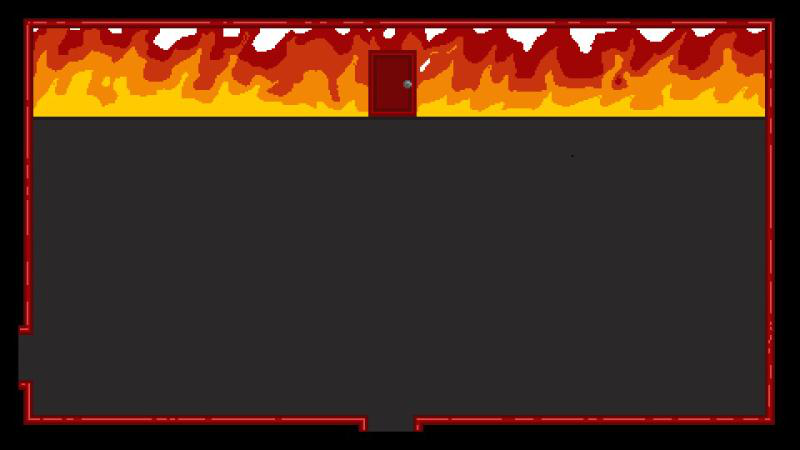
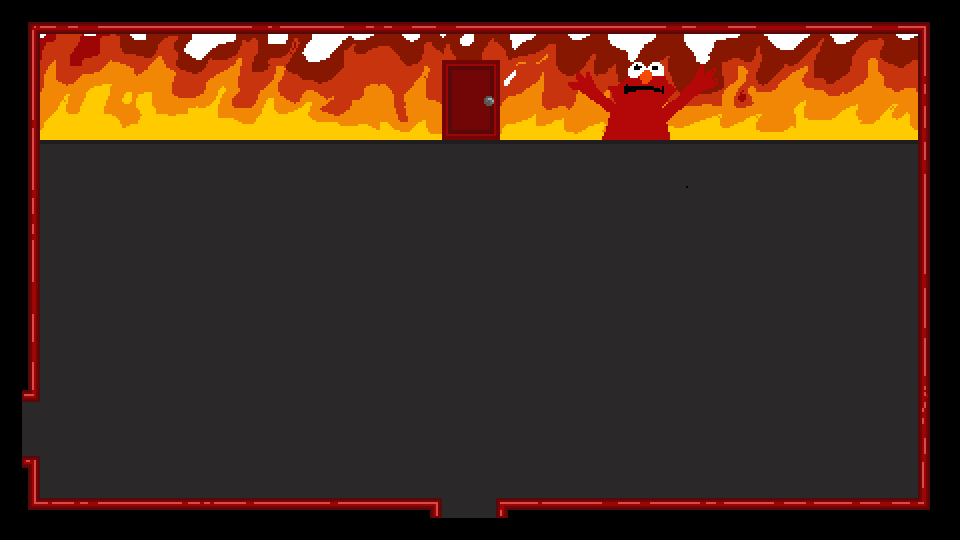
add final boss sprite and How To Play screen

Changed region(s): [[0.125, 0.0622, 0.9688, 0.28], [0.0312, 0.2489, 0.4688, 0.28]]

diff --git a/src/src/controller/Main.java b/src/src/controller/Main.java
@@ -2,8 +2,12 @@ package src.controller;
 
 import javafx.animation.AnimationTimer;
 import javafx.application.Application;
+import javafx.event.EventHandler;
 import javafx.scene.Scene;
 import javafx.scene.image.Image;
+import javafx.scene.image.ImageView;
+import javafx.scene.input.KeyCode;
+import javafx.scene.input.KeyEvent;
 import javafx.scene.layout.Pane;
 import javafx.stage.Stage;
 import src.model.Direction;
@@ -56,70 +60,77 @@ public class Main extends Application {
     }
 
     private void goToInitialScreen(ConfigurationScreenScene configScene) {
-        if (configScene.validateUsernameString()) {
-            gameModel.setUsername(configScene.getUsername());
-            gameModel.setDifficulty(difficulties[
-                    (Integer) configScene.getDifficultyIndex()]);
-            gameModel.setWeapon(weapons[
-                    (Integer) configScene.getWeaponIndex()]);
-            gameModel.setDifficultyIndex(
-                    (Integer) configScene.getDifficultyIndex());
+        //show How to Play
+        HowToPlayScreen playScreen = new HowToPlayScreen(width, height, gameModel, getPlayerView());
+        mainWindow.setScene(playScreen.getHowToPlayScreen());
+        mainWindow.addEventHandler(KeyEvent.KEY_PRESSED, event->{
+            if (event.getCode() == KeyCode.TAB) {
+                if (configScene.validateUsernameString()) {
+                    gameModel.setUsername(configScene.getUsername());
+                    gameModel.setDifficulty(difficulties[
+                            (Integer) configScene.getDifficultyIndex()]);
+                    gameModel.setWeapon(weapons[
+                            (Integer) configScene.getWeaponIndex()]);
+                    gameModel.setDifficultyIndex(
+                            (Integer) configScene.getDifficultyIndex());
 
-            Pane playerLayer = new Pane();
-            //starting sprites
-            Image playerImage = new Image("file:assets/AlexFWD.png");
-            Weapon weapon = Weapon.SWORD;
+                    Pane playerLayer = new Pane();
+                    //starting sprites
+                    Image playerImage = new Image("file:assets/AlexFWD.png");
+                    Weapon weapon = Weapon.SWORD;
 
-            switch (weapons[(Integer) configScene.getWeaponIndex()]) {
-            case "Sword":
-                playerImage = new Image(
-                        "file:assets/alex_sprites/sword/facing_front/"
-                                + "standing/sword_front_standing.png");
-                weapon = Weapon.SWORD;
-                break;
-            case "Gun":
-                playerImage = new Image(
-                        "file:assets/alex_sprites/gun/facing_front/"
-                                + "standing/gun_front_standing.png");
-                weapon = Weapon.GUN;
-                break;
-            case "Broken Bottle" :
-                playerImage = new Image(
-                        "file:assets/alex_sprites/broken_bottle/facing_front/"
-                                + "standing/bottle_front_standing.png");
-                weapon = Weapon.BOTTLE;
-                break;
-            default:
-                break;
-            }
-
-            PlayerView playerView = new PlayerView(playerLayer, (double) width / 2,
-                    (double) height / 2, width, height, weapon, Direction.FRONT);
-            this.pV = playerView; //for testing purposes
-            Image inventoryImage = new Image("file:assets/inventory.png");
-            InventoryView inventoryView = new InventoryView(inventoryImage);
-            MazeView maze = new MazeView(width, height, 5, 5, gameModel, playerView, inventoryView);
-            this.mV = maze;
-            this.iV = inventoryView;
-            PlayerController playerController =
-                    new PlayerController(mainWindow, playerView, maze, inventoryView);
-            MazeController mazeController =
-                    new MazeController(mainWindow, maze, playerView, gameModel);
-            MonsterController monsterController
-                    = new MonsterController(mainWindow, playerView, maze);
-            mainWindow.setScene(maze.getCurrent().getScene());
-            mainWindow.show();
-            AnimationTimer timer = new AnimationTimer() {
-                @Override
-                public void handle(long now) {
-                    //checking if player has died
-                    if (playerView.getModel().getPlayerHP() <= 0) {
-                        goToDieScreen(configScene, this);
+                    switch (weapons[(Integer) configScene.getWeaponIndex()]) {
+                        case "Sword":
+                            playerImage = new Image(
+                                    "file:assets/alex_sprites/sword/facing_front/"
+                                            + "standing/sword_front_standing.png");
+                            weapon = Weapon.SWORD;
+                            break;
+                        case "Gun":
+                            playerImage = new Image(
+                                    "file:assets/alex_sprites/gun/facing_front/"
+                                            + "standing/gun_front_standing.png");
+                            weapon = Weapon.GUN;
+                            break;
+                        case "Broken Bottle" :
+                            playerImage = new Image(
+                                    "file:assets/alex_sprites/broken_bottle/facing_front/"
+                                            + "standing/bottle_front_standing.png");
+                            weapon = Weapon.BOTTLE;
+                            break;
+                        default:
+                            break;
                     }
+
+                    PlayerView playerView = new PlayerView(playerLayer, (double) width / 2,
+                            (double) height / 2, width, height, weapon, Direction.FRONT);
+                    this.pV = playerView; //for testing purposes
+                    Image inventoryImage = new Image("file:assets/inventory.png");
+                    InventoryView inventoryView = new InventoryView(inventoryImage);
+                    MazeView maze = new MazeView(width, height, 5, 5, gameModel, playerView, inventoryView);
+                    this.mV = maze;
+                    this.iV = inventoryView;
+                    PlayerController playerController =
+                            new PlayerController(mainWindow, playerView, maze, inventoryView);
+                    MazeController mazeController =
+                            new MazeController(mainWindow, maze, playerView, gameModel);
+                    MonsterController monsterController
+                            = new MonsterController(mainWindow, playerView, maze);
+                    mainWindow.setScene(maze.getCurrent().getScene());
+                    mainWindow.show();
+                    AnimationTimer timer = new AnimationTimer() {
+                        @Override
+                        public void handle(long now) {
+                            //checking if player has died
+                            if (playerView.getModel().getPlayerHP() <= 0) {
+                                goToDieScreen(configScene, this);
+                            }
+                        }
+                    };
+                    timer.start();
                 }
-            };
-            timer.start();
-        }
+            }
+        });
     }
 
     private void goToDieScreen(ConfigurationScreenScene configScene, AnimationTimer timer) {

diff --git a/src/src/view/HowToPlayScreen.java b/src/src/view/HowToPlayScreen.java
@@ -1,0 +1,32 @@
+package src.view;
+
+import javafx.scene.Scene;
+import javafx.scene.image.Image;
+import javafx.scene.image.ImageView;
+import javafx.scene.layout.VBox;
+import src.model.GameModel;
+
+public class HowToPlayScreen {
+    private int width;
+    private int height;
+    private GameModel gameModel;
+    private PlayerView playerView;
+
+    public HowToPlayScreen(int width, int height, GameModel gameModel, PlayerView playerView) {
+        this.width = width;
+        this.height = height;
+        this.gameModel = gameModel;
+        this.playerView = playerView;
+    }
+
+    public Scene getHowToPlayScreen() {
+        //background image:
+        Image playScene = new Image("file:assets/HowToPlay.png");
+        ImageView playSceneViewer = new ImageView(playScene);
+        playSceneViewer.setFitWidth(width);
+        playSceneViewer.setFitHeight(height);
+        VBox background = new VBox(playSceneViewer);
+
+        return new Scene(background);
+    }
+}

diff --git a/src/src/view/MazeView.java b/src/src/view/MazeView.java
@@ -71,8 +71,8 @@ public class MazeView {
 
         //FINAL ROOM MONSTER WEE WOO
         MonsterView finalBoss = new MonsterView(layer,
-                new Image("file:assets/enemies/standing/steven_deepfried.jpg"),
-                new Image("file:assets/enemies/hit/bouncer_hit.png"),
+                new Image("file:assets/FinalBoss.gif"),
+                new Image("file:assets/FinalBoss.gif"),
                 50, 50, true);
 
         ArrayList<MonsterView> monsters2 = new ArrayList<>();
